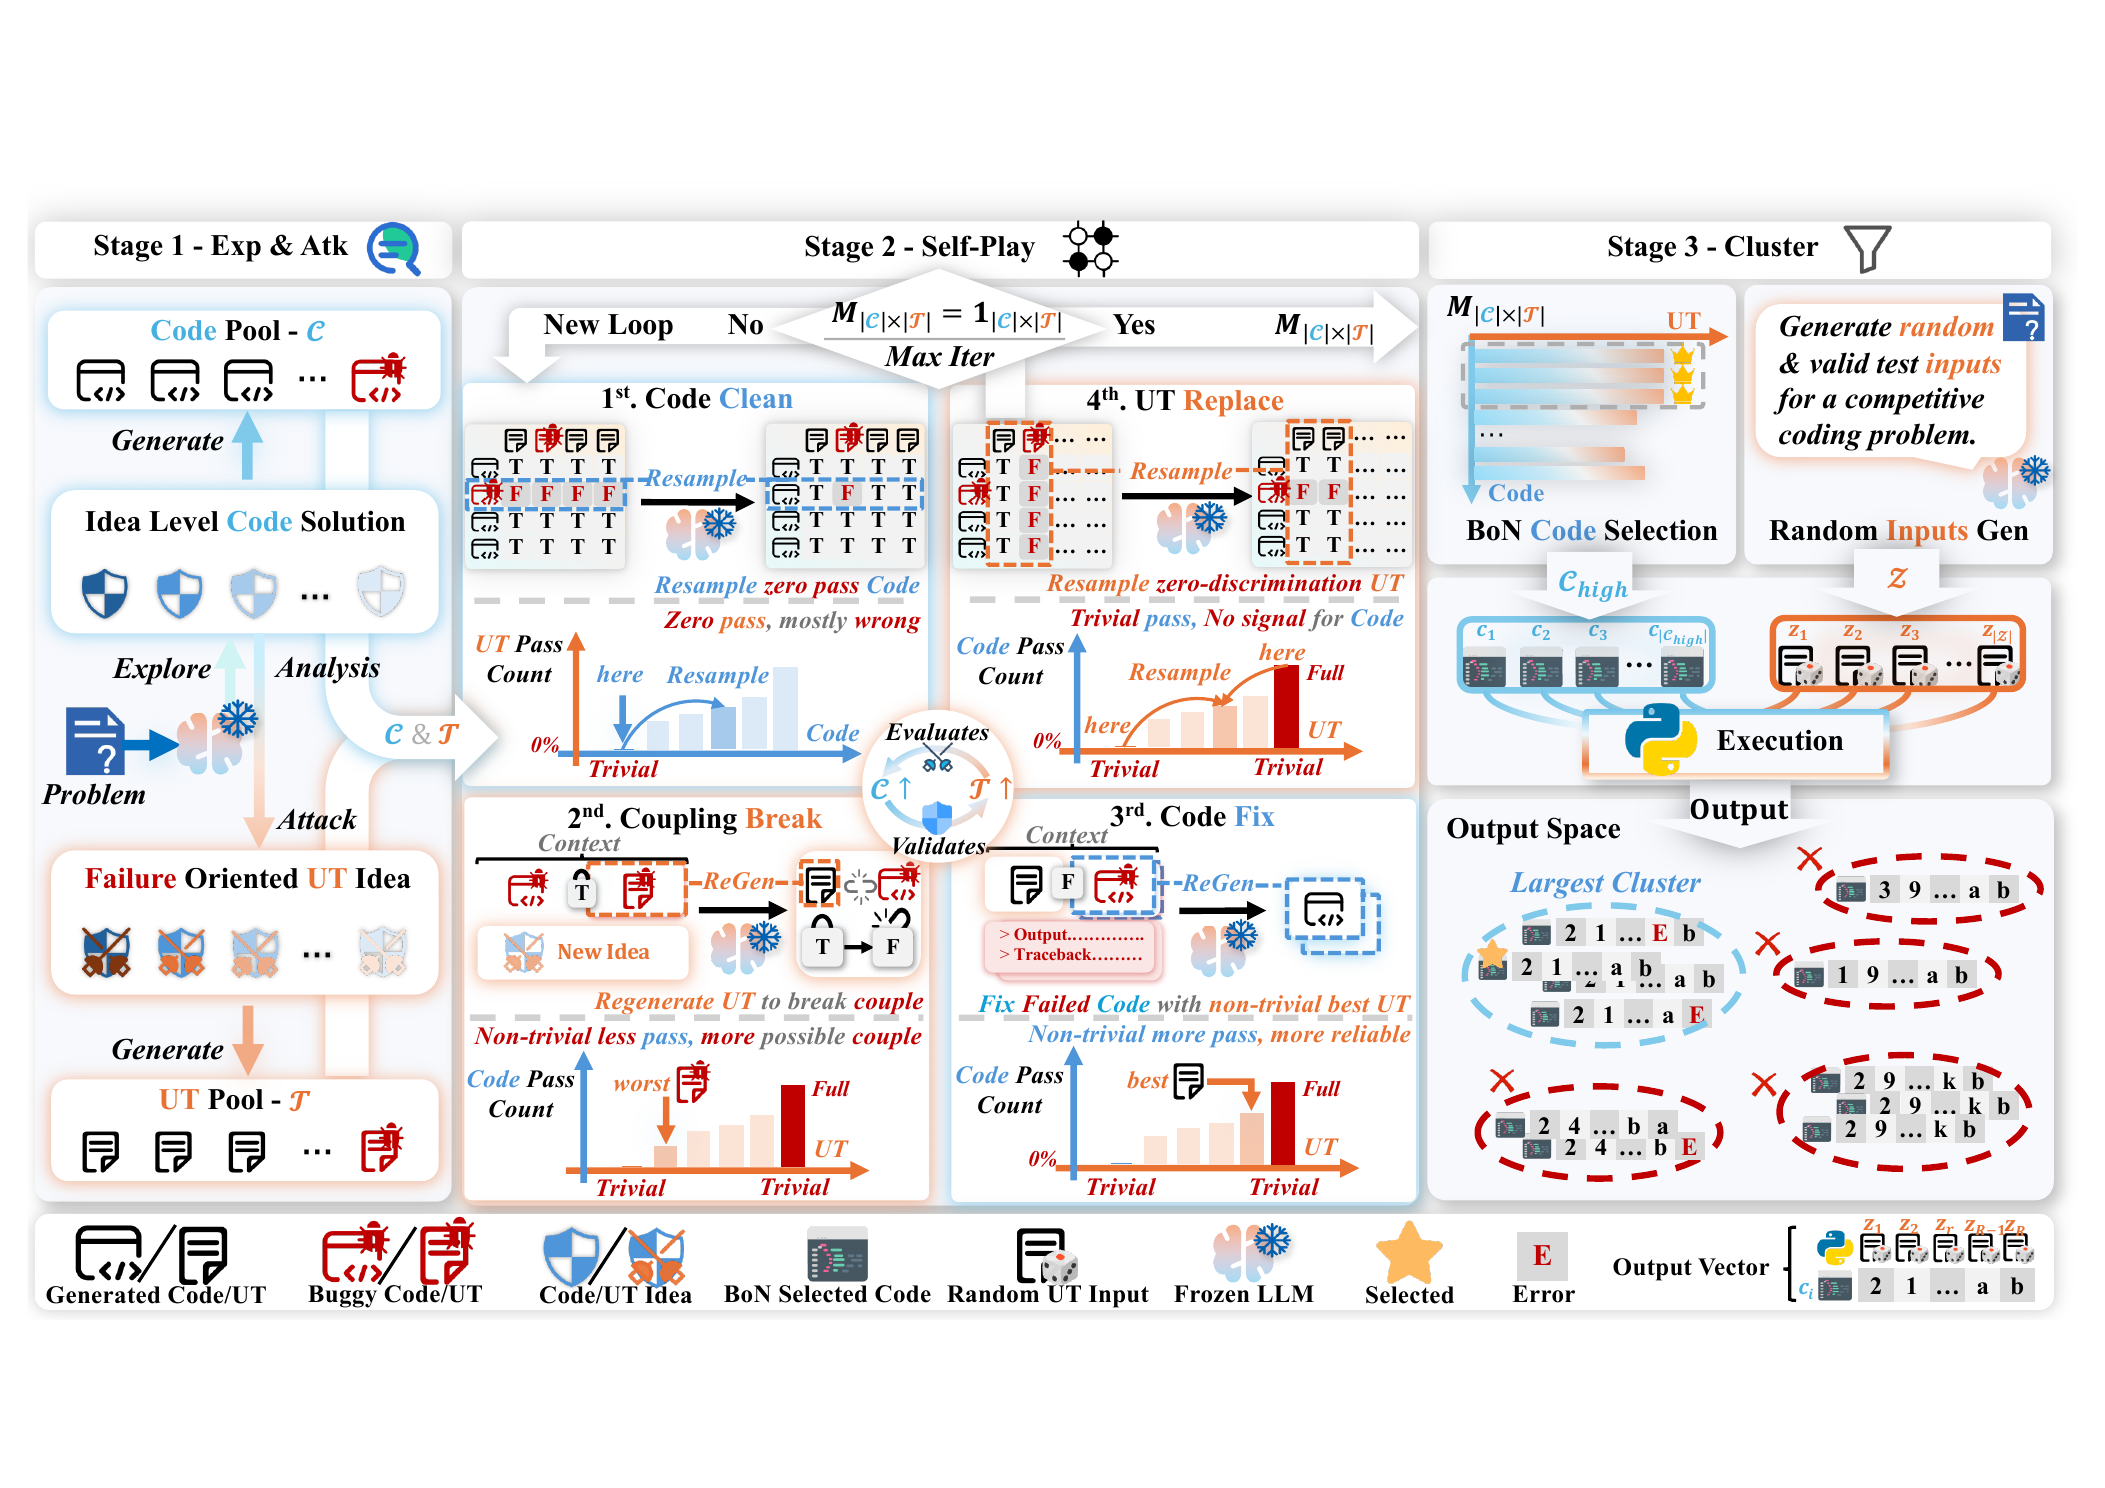
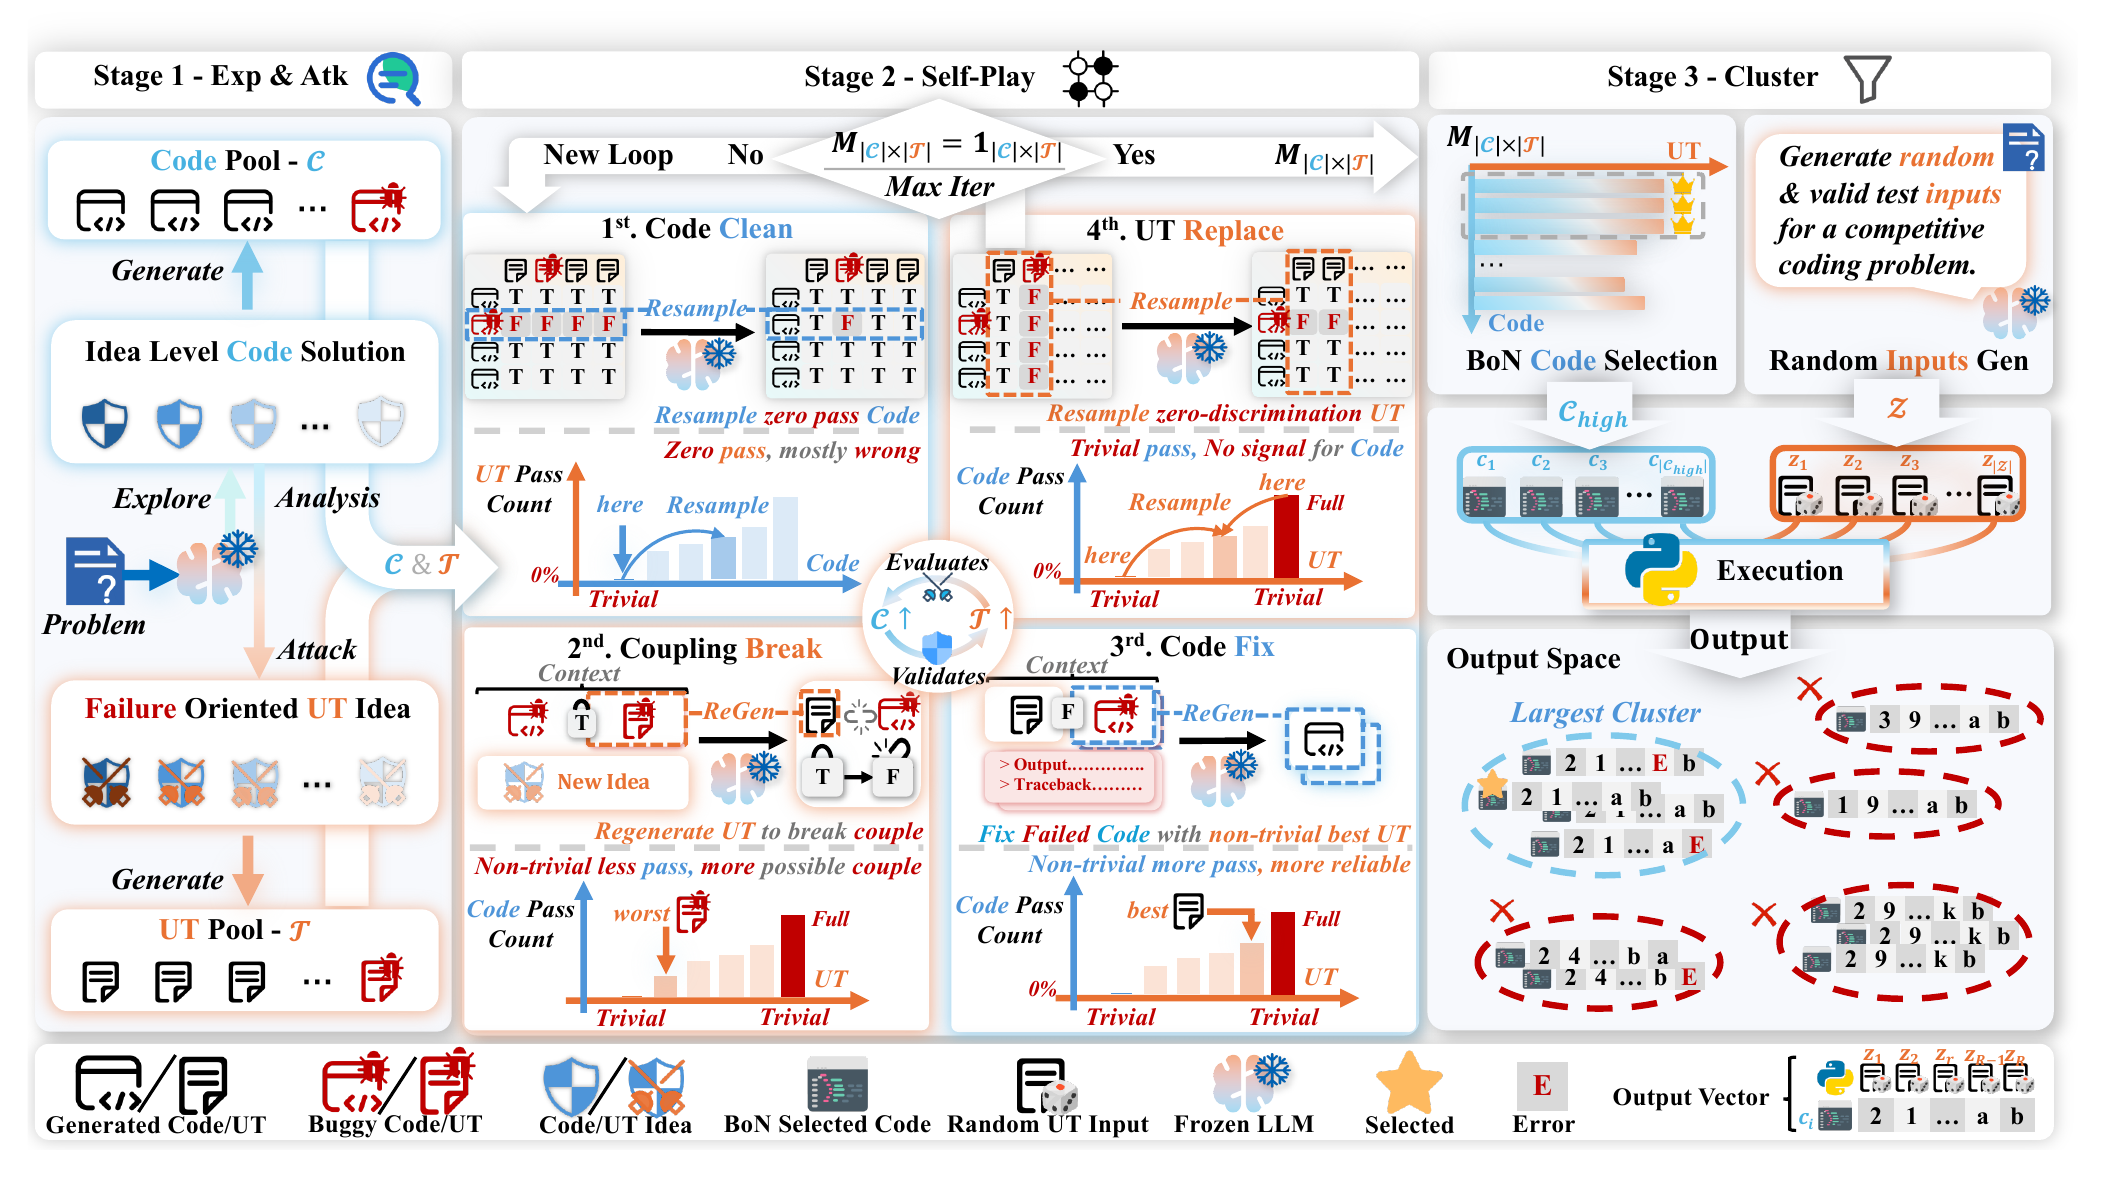
[update] change the description

diff --git a/evaluation/README.md b/evaluation/README.md
@@ -1,0 +1,275 @@
+# Evaluation
+
+This directory contains the open-source evaluation pipeline for **CoSPlay:
+Cooperative Self-Play at Test-Time with Self-Generated Code and Unit Test**.
+CoSPlay is a **GT-free** and **training-free** test-time scaling method for code
+generation. It does not require ground-truth unit tests during inference and does
+not update model weights. Instead, it uses the model itself to generate code,
+generate unit tests, execute code-test pairs, refine both pools, and select the
+final answer from execution evidence.
+
+The default script, [`eval.sh`](eval.sh), runs the final CoSPlay setting used by
+this release on the benchmark chunks under `../CURE_data`.
+
+## What CoSPlay Evaluates
+
+Given one competitive-programming problem, CoSPlay maintains two generated pools:
+
+| Pool | Meaning |
+| --- | --- |
+| Code pool | Candidate Python programs sampled from solution plans. |
+| Unit-test pool | Self-generated input-output tests used for repair and selection. |
+
+The pipeline has three stages.
+
+### Stage 1: Exploration-Attack Idea Generation
+
+CoSPlay first asks the model to explore solution ideas rather than immediately
+sampling code. It generates high-level algorithmic hints, expands small hint
+subsets into detailed solution plans, and then derives **failure-oriented unit
+test ideas** from those plans. These attack ideas describe edge cases,
+implementation pitfalls, or hidden failure modes that are likely to distinguish
+correct and buggy solutions.
+
+This stage is important because directly sampled unit tests are often generic or
+weakly discriminative. By grounding tests in concrete solution hypotheses,
+CoSPlay obtains a stronger initial code-test pool for subsequent self-play.
+
+### Stage 2: Execution-Matrix-Driven Self-Play
+
+CoSPlay executes every generated code candidate against every generated unit
+test and builds a binary execution matrix:
+
+```text
+M[i, j] = 1 if code_i passes unit_test_j, else 0
+```
+
+Row statistics estimate code quality, while column statistics estimate unit-test
+reliability and discriminative power. Each self-play round uses these statistics
+to update both pools:
+
+| Step | Purpose |
+| --- | --- |
+| Code cleaning | Resample code candidates that fail all current tests. |
+| Coupling break | Regenerate low-support non-trivial tests that may be spuriously coupled with a few wrong codes. |
+| Code fixing | Repair code candidates using a high-support but still non-trivial test. |
+| UT replacement | Replace invalid or zero-pass tests after code repair, and separately refresh all-pass tests when they no longer discriminate among candidates. |
+
+After each update, the code-test execution matrix is refreshed, so later
+decisions use current execution evidence rather than stale signals.
+
+### Stage 3: Output-Consensus Cluster Selection
+
+After self-play, CoSPlay performs BoN-style scoring with the evolved unit-test
+pool. If multiple code candidates tie, it generates random valid inputs and
+clusters tied candidates by their output behavior. Correct code is expected to
+form a larger and more internally consistent output cluster, while wrong code
+tends to fail in diverse ways. The final program is selected from the strongest
+execution-consensus cluster.
+
+## Benchmarks
+
+The release evaluates on four coding benchmarks:
+
+| Benchmark | Description |
+| --- | --- |
+| `LiveBench` | Recent coding problems from LiveBench, used to test instruction-following and programming ability on less-contaminated tasks. |
+| `LiveCodeBench` | Recent competitive-programming style problems with hidden tests and temporal separation from many training corpora. |
+| `CodeContests` | Algorithmic programming problems from the CodeContests benchmark, emphasizing classical contest reasoning. |
+| `CodeForces` | Codeforces-style competitive-programming problems, typically the hardest split in our evaluation. |
+
+Datasets are stored as JSON chunks under:
+
+```text
+../CURE_data/<dataset_name>.json
+```
+
+The loader in [`main_self_play_v3.py`](main_self_play_v3.py) resolves
+`--dataset CodeContests_chunk_0` as:
+
+```text
+../CURE_data/CodeContests_chunk_0.json
+```
+
+Do not pass an absolute path to `--dataset` unless you also modify the loader.
+
+The default script evaluates these chunk families:
+
+| Family | Chunks |
+| --- | --- |
+| `CodeContests` | `CodeContests_chunk_0` to `CodeContests_chunk_4` |
+| `CodeForces` | `CodeForces_chunk_0` to `CodeForces_chunk_9` |
+| `LiveBench` | `LiveBench_chunk_0` to `LiveBench_chunk_2` |
+| `LiveCodeBench` | `LiveCodeBench_chunk_0` to `LiveCodeBench_chunk_10` |
+
+## Metrics
+
+The evaluation logs several code and unit-test metrics. The most commonly used
+ones are:
+
+| Metric | Meaning |
+| --- | --- |
+| `Code Acc.` | Fraction of generated code candidates that pass official tests. This is used for analysis, not for test-time supervision. |
+| `UT Acc.` | Fraction of generated unit tests whose expected outputs are correct. This is also analysis-only. |
+| `Signal` / `Sig.` | Accuracy when generated unit tests are used to select among code candidates; it measures UT discriminative power. |
+| `BoN` | Best-of-N accuracy using self-generated code candidates and generated unit tests. |
+| `Cluster` | Output-consensus selection among BoN-tied candidates using random valid inputs. |
+
+Official tests are only used for final evaluation and analysis. CoSPlay itself
+uses self-generated tests during inference.
+
+## Quick Start
+
+From the repository root:
+
+```bash
+CONDA_ENV_NAME=cosplay bash evaluation/eval.sh
+```
+
+By default, this evaluates:
+
+```text
+MODEL=Qwen/Qwen2.5-7B-Instruct
+K_CODE=16
+K_CASE=16
+SELF_PLAY_ROUND=5
+EVAL_MODE=bon
+GENERATION_MODE=plansearch
+```
+
+You can evaluate a local checkpoint or a different Hugging Face model:
+
+```bash
+MODEL=/path/to/model bash evaluation/eval.sh
+MODEL=Qwen/Qwen2.5-14B-Instruct bash evaluation/eval.sh
+```
+
+Run repeated experiments with separate output modes:
+
+```bash
+REPEAT_IDS=1,2,3 bash evaluation/eval.sh
+```
+
+Control GPU placement:
+
+```bash
+CUDA_VISIBLE_DEVICES=0,1 GPU_GROUPS='[[0],[1]]' bash evaluation/eval.sh
+```
+
+## Main Configuration
+
+Most options can be overridden through environment variables in `eval.sh`.
+
+| Variable | Default | Meaning |
+| --- | --- | --- |
+| `MODEL` | `Qwen/Qwen2.5-7B-Instruct` | Model name or local checkpoint path. |
+| `K_CODE` | `16` | Number of candidate programs generated per problem. |
+| `K_CASE` | `16` | Number of generated unit tests maintained per problem. |
+| `SELF_PLAY_ROUND` | `5` | Number of code-test self-play rounds. |
+| `GENERATION_MODE` | `plansearch` | Uses exploration-guided plan search before code generation. |
+| `EVAL_MODE` | `bon` | Runs BoN-style selection with generated unit tests. |
+| `SCALE_TUPLE_LIST` | `[(2, 2), (4, 4), (8, 8), (16, 16)]` | BoN scales evaluated from the same generated pools. |
+| `PASS_AT_K_LIST` | `[1,2,4,8,16]` | Pass@k values to report. |
+| `USE_IDEA_ATTACK_UT` | `True` | Enables failure-oriented UT ideas from Stage 1. |
+| `USE_SELF_PLAY` | `True` | Enables execution-guided iterative self-play. |
+| `SELF_CONSISTENCY_NUM` | `4` | Number of self-consistency samples for UT output validation. |
+| `GPU_GROUPS` | `[[0],[1]]` | vLLM worker GPU grouping. |
+| `LOG_ROOT` | `../CURE_logs/final_eval_logs/final/Cosplay_7b` | Root directory for run logs. |
+
+## Running One Dataset Manually
+
+For debugging, you can call the Python entrypoint directly from this directory:
+
+```bash
+python -u main_self_play_v3.py \
+  --use_api False \
+  --pretrained_model Qwen/Qwen2.5-7B-Instruct \
+  --dataset CodeContests_chunk_0 \
+  --k_code 16 \
+  --k_case 16 \
+  --generation_mode plansearch \
+  --eval_mode bon \
+  --scale_tuple_list '[(2, 2), (4, 4), (8, 8), (16, 16)]' \
+  --pass_at_k_list '[1,2,4,8,16]' \
+  --use_idea_attack_ut True \
+  --use_self_play True \
+  --self_play_round 5 \
+  --gpu_groups '[[0],[1]]'
+```
+
+## Output Layout
+
+`eval.sh` writes a tee log for each model-dataset pair:
+
+```text
+<LOG_ROOT>/<MODE>/eval_<model>_<dataset>.log
+```
+
+During evaluation, the Python pipeline also writes intermediate and final result
+artifacts under the configured result/log directories. Common artifacts include:
+
+| Artifact | Meaning |
+| --- | --- |
+| `results_eval_<model>_<dataset>.json` | Main per-problem output after generation/evaluation. |
+| `self_play_v2_rounds/` | Round-by-round snapshots of the evolving code and UT pools. |
+| `round_*_metrics` / result text logs | Per-round BoN, pass@k, execution, and usage summaries. |
+
+Exact filenames depend on `MODE`, model name sanitization, and whether the run is
+resumed.
+
+## File Guide
+
+| File | Purpose |
+| --- | --- |
+| [`eval.sh`](eval.sh) | Main shell entrypoint for full benchmark evaluation. |
+| [`main_self_play_v3.py`](main_self_play_v3.py) | Argument parsing, dataset loading, orchestration, resume logic, and final evaluation. |
+| [`generator_v3.py`](generator_v3.py) | Stage-1 idea exploration, code generation, unit-test generation, extraction, and validation helpers. |
+| [`self_play_v3.py`](self_play_v3.py) | Execution-matrix-driven self-play loop. |
+| [`execution.py`](execution.py) | Sandboxed execution of generated code on generated and official tests. |
+| [`metrics.py`](metrics.py) | BoN, pass@k, cluster selection, and evaluation metrics. |
+| [`inference.py`](inference.py) | vLLM and API model backends. |
+| [`UT_config.py`](UT_config.py) | Prompt templates and helper functions for unit-test generation, refinement, and code fixing. |
+| [`usage_tracking.py`](usage_tracking.py) | Token and request accounting across generation stages. |
+
+## Local vLLM and API Modes
+
+The default open-source script uses local vLLM workers:
+
+```text
+USE_API=False
+```
+
+For API evaluation, set `--use_api True` and configure `api_key`, `base_url`,
+and `api_model_name` in [`evaluation_config.py`](evaluation_config.py) or pass
+them through your own wrapper. The public config keeps API keys as placeholders.
+
+## Resume Support
+
+`main_self_play_v3.py` supports resuming from saved outputs:
+
+| Argument | Purpose |
+| --- | --- |
+| `--resume_round00` | Resume from the initial generated round-0 file. |
+| `--resume_round` | Resume from a later self-play round snapshot. |
+| `--start_round` | Round index already completed. |
+
+This is useful for long-running jobs where generation completed but later
+self-play rounds or metrics need to be rerun.
+
+## Practical Notes
+
+- Make sure every dataset listed in `eval.sh` exists under `../CURE_data`.
+- Keep `K_CODE` and `K_CASE` aligned with the largest values in
+  `SCALE_TUPLE_LIST`; the default `(16, 16)` assumes both pools contain 16
+  candidates.
+- The script creates per-job Torch/vLLM cache directories to avoid conflicts
+  when multiple jobs run on the same machine.
+- Generated unit tests are noisy by design; CoSPlay relies on self-consistency,
+  execution pass counts, and self-play replacement to filter that noise.
+- Official tests should not be used during generation or self-play. They are
+  only used by the evaluator to compute final correctness.
+
+## Citation
+
+If you use this evaluation pipeline, please cite the CoSPlay paper once the
+official citation is available in the repository root README.
